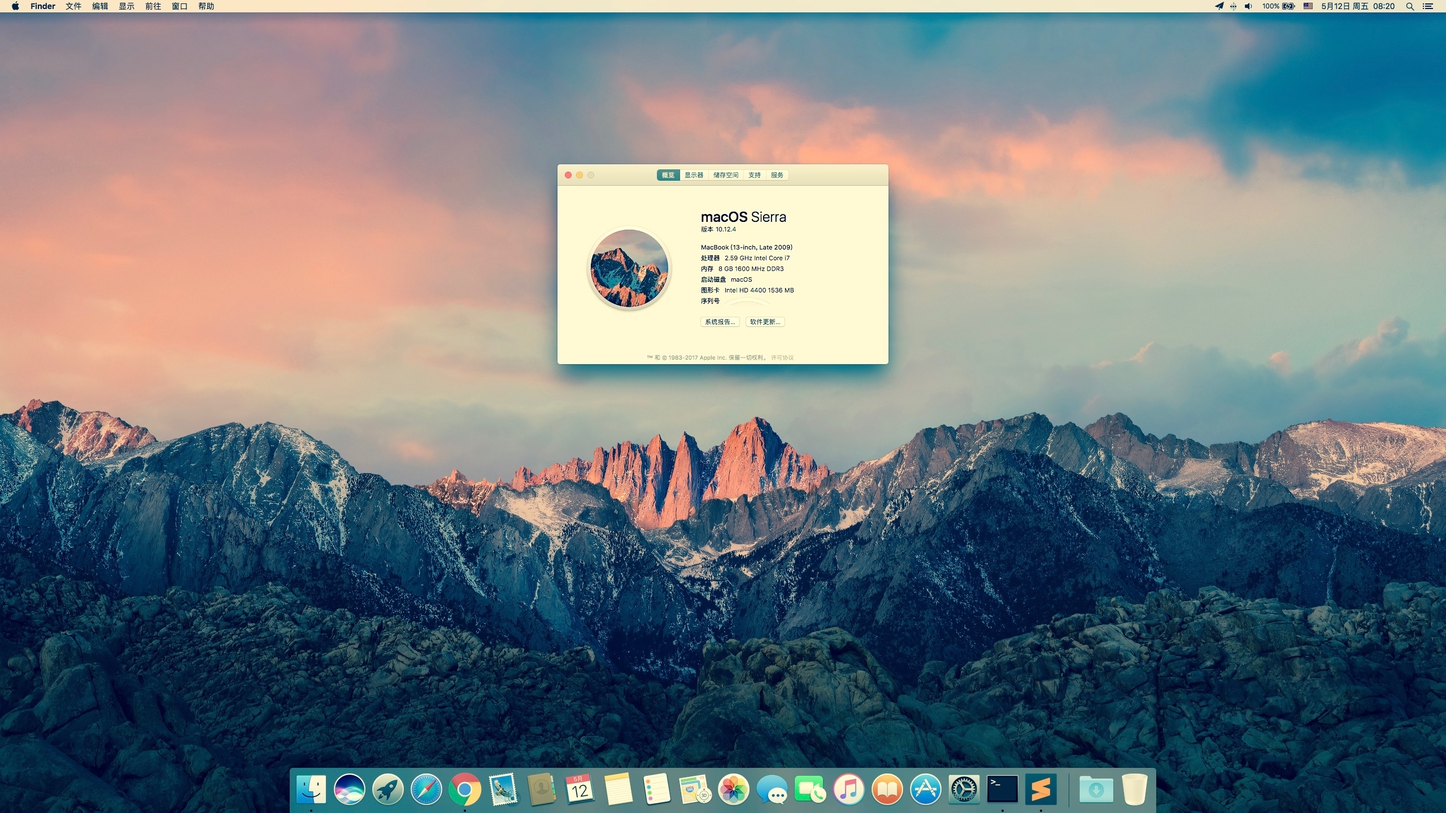
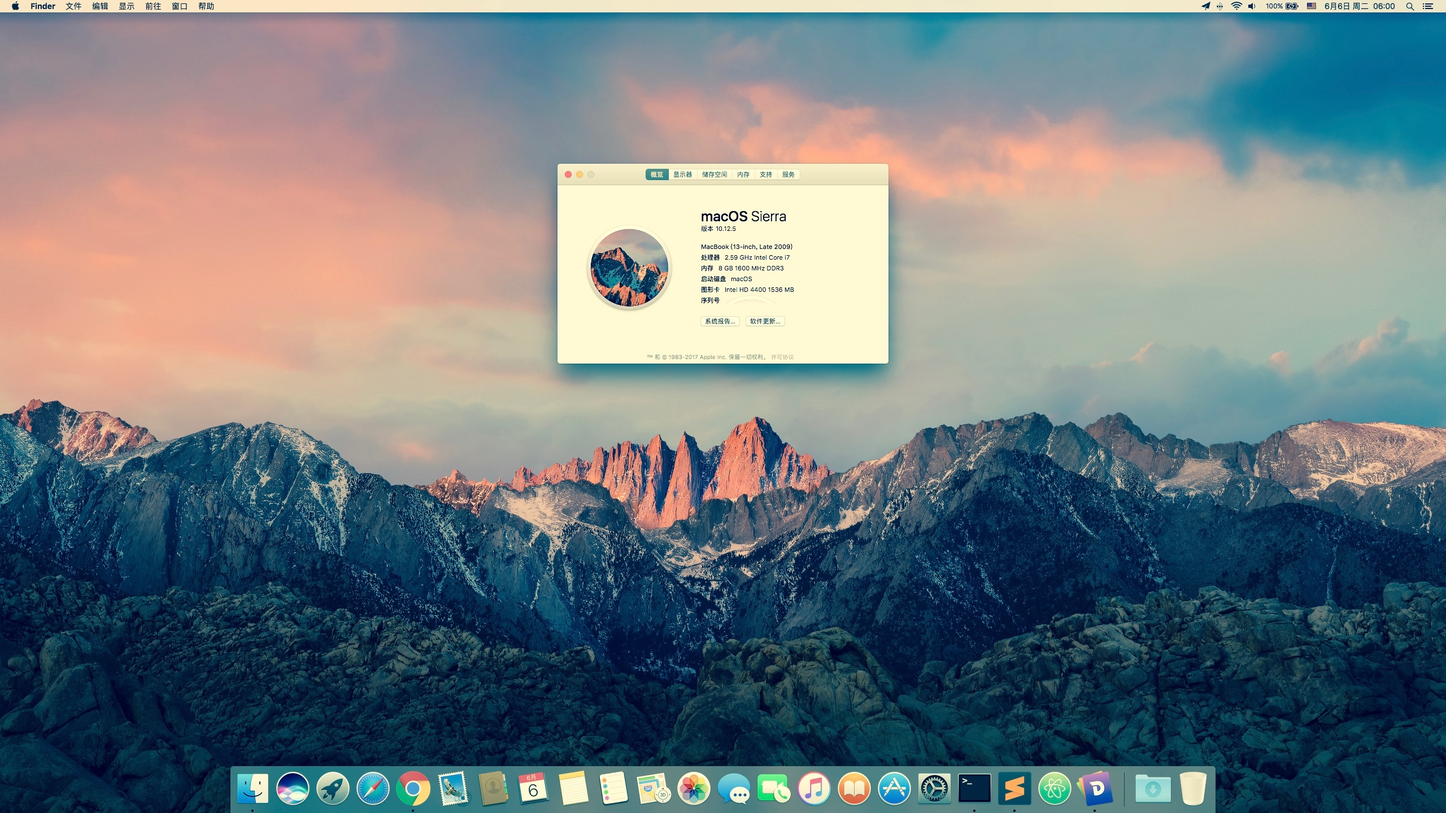
stronger ^_^

diff --git a/README.md b/README.md
@@ -1,7 +1,7 @@
 ## 小黑修炼记
 
     修炼目标
-    mac OS: macOS Sierra 10.12.4
+    mac OS: macOS Sierra 10.12.5
     SMBIOS: MacBookPro11,2
 
     使用 Vue, iView 构建的 GitHub 上 maciasl patch 的预览
@@ -10,15 +10,14 @@
 
 设备 | 型号
 :-: | -
-主板 | Lenovo Lancer 5A5
+主板 | LENOVO 9BCN29WW
 主板芯片组 | Intel Lynx Point-LP `南桥`, Intel Haswell `北桥`
 CPU | Intel(R) Core(TM) i7-4510U CPU @ 2.00GHz `可睿频至 3.1GHz`
 集显 | Intel HD Graphics 4400 `Haswell-ULT GT2`
 独显 | NVIDIA GeForce 840M
 声卡 | Conexant CX20751/2
-有线网卡 | Realtek RTL8168/8111 PCI-E `Realtek RTL8168GU`
-无线网卡 | Intel(R) Dual Band Wireless-AC 3160
-蓝牙 | 英特尔(R) 无线 Bluetooth(R) `USB\VID_8087&PID_07DC&REV_0001`
+有线 | Realtek RTL8168/8111 PCI-E `Realtek RTL8168GU`
+无线和蓝牙| Intel 3160 AC &nbsp;--<sup>更换为</sup>-->&nbsp; Broadcom BCM4352 802.11AC
 触控板 | ELAN
 
 &nbsp;
@@ -70,8 +69,8 @@ CPU | Intel(R) Core(TM) i7-4510U CPU @ 2.00GHz `可睿频至 3.1GHz`
     完成补丁: [:page_facing_up:](patches/graphics_inject_id.txt)
 
         id 获取 `两种途径`:
-        [tonymacx86](https://www.tonymacx86.com/threads/fix-intel-hd4200-hd4400-hd4600-mobile-on-yosemite.145427/)
-        [pcbeta](http://bbs.pcbeta.com/viewthread-1465761-1-1.html)
+          [tonymacx86](https://www.tonymacx86.com/threads/fix-intel-hd4200-hd4400-hd4600-mobile-on-yosemite.145427/)
+        | [pcbeta](http://bbs.pcbeta.com/viewthread-1465761-1-1.html)
 
 
 -   **声卡**  
@@ -81,25 +80,45 @@ CPU | Intel(R) Core(TM) i7-4510U CPU @ 2.00GHz `可睿频至 3.1GHz`
     参考补丁: `[audio] Audio Layout 12`  
     完成补丁: [:page_facing_up:](patches/audio.txt)
 
-    layout-id: [查看](https://github.com/vit9696/AppleALC/wiki/Supported-codecs)
+    layout-id: [github](https://github.com/vit9696/AppleALC/wiki/Supported-codecs)
 
     驱动文件:
-    [AppleALC](https://github.com/vit9696/AppleALC)
-    [Lilu](https://github.com/vit9696/Lilu)
+      [AppleALC](https://github.com/vit9696/AppleALC)
+    , [Lilu](https://github.com/vit9696/Lilu)
     > AppleALC 1.1.1 : Requires Lilu 1.1.0 or newer  
     > AppleALC 1.1.0 : AppleALC now has its kernel patcher moved to Lilu.kext  
     > AppleALC 1.0.19: Added Conexant CX20751_2 HDMI/DisplayPort Output fix by syscl
+
 
 -   **有线网卡**  
     `Realtek RTL8168GU`  
     驱动文件: [RealtekRTL8111.kext](https://bitbucket.org/RehabMan/os-x-realtek-network/downloads)
 
--   ~~***无线网卡***~~ :ghost:  
-    ~~*`Intel(R) Dual Band Wireless-AC 3160`*~~
 
--   **蓝牙**  
-    `英特尔(R) 无线 Bluetooth(R) USB\VID_8087&PID_07DC&REV_0001`  
-    it's working ^\_^
+-   ***无线网卡*** :ghost:  
+    *`Broadcom BCM4352 802.11AC (BCM94352Z)`*  
+    :bulb: 在 Windows 操作系统下 [移除白名单](https://www.tonymacx86.com/threads/guide-lenovo-g50-70-and-z50-70-bios-whitelist-removal.187340/)
+    之后，更换新的无线网卡  
+    驱动文件:
+    [FakePCIID_Broadcom_WiFi.kext](https://bitbucket.org/RehabMan/os-x-fake-pci-id/downloads)
+    `依赖 FakePCIID.kext`
+    > **Broadcom WiFi BCM94352 requires additional patches**
+    >
+    > The patch was created by the-darkvoid.
+    >
+    > eg. in KextsToPatch:  
+    > Comment: AirPortBrcm4360 - fcvo, 10.12.x (credit the-darkvoid)  
+    > MatchOS: 10.12.x  
+    > Name: AirPortBrcm4360  
+    > Find: <81f952aa 00007529>  
+    > Replace: <81f952aa 00006690>
+    >
+    > Additional background: [insanelymac](http://www.insanelymac.com/forum/topic/312759-fix-macos-sierra-dp1-bcm94532z-wifi/)
+
+-   ***蓝牙*** :ghost:  
+    驱动文件:
+      [BrcmFirmwareData.kext](https://bitbucket.org/RehabMan/os-x-brcmpatchram/downloads)
+    , [BrcmPatchRAM2.kext](https://bitbucket.org/RehabMan/os-x-brcmpatchram/downloads)
 
 
 -   **键盘／触摸板**  
@@ -113,7 +132,7 @@ CPU | Intel(R) Core(TM) i7-4510U CPU @ 2.00GHz `可睿频至 3.1GHz`
     参考补丁: `[sys] Haswell LPC`  
     完成补丁: [:page_facing_up:](patches/lpc.txt)
 
-    id 查找方法: [查看](http://bbs.pcbeta.com/viewthread-1473630-1-1.html)
+    id 查找方法: [pcbeta](http://bbs.pcbeta.com/viewthread-1473630-1-1.html)
 
 -   **亮度**  
     修改的表: `SSDT-3.dsl`  
@@ -128,6 +147,18 @@ CPU | Intel(R) Core(TM) i7-4510U CPU @ 2.00GHz `可睿频至 3.1GHz`
     3. [修复 macOS 10.12.4 版本的亮度](https://www.tonymacx86.com/threads/guide-laptop-backlight-control-using-applebacklightinjector-kext.218222/)
     `获得制作的两个文件 •SSDT-PNLF.aml •AppleBacklightInjector.kext`
 
+    **Additional**
+    > The patch was created by RehabMan.
+    >
+    > eg. in KextsToPatch:  
+    > Comment: change F%uT%04x to F%uTxxxx in AppleBacklightInjector.kext (credit RehabMan)  
+    > Name: com.apple.driver.AppleBacklight  
+    > Find: <46257554 25303478 00>  
+    > Replace: <46257554 78787878 00>
+    >
+    > Additional background of *Installation*: [tonymacx86](https://www.tonymacx86.com/threads/guide-laptop-backlight-control-using-applebacklightinjector-kext.218222/)
+
+
 -   **电池**  
     :bulb: 电池状态  
     修改的表: `DSDT.dsl`  
@@ -135,9 +166,9 @@ CPU | Intel(R) Core(TM) i7-4510U CPU @ 2.00GHz `可睿频至 3.1GHz`
     驱动文件: [ACPIBatteryManager.kext](https://bitbucket.org/RehabMan/os-x-acpi-battery-driver/downloads/)
 
     补丁制作:
-    [tonymacx86](https://www.tonymacx86.com/threads/guide-how-to-patch-dsdt-for-working-battery-status.116102/)
-    [pcbeta](http://bbs.pcbeta.com/viewthread-1521462-1-1.html)
-    `后者为前者的中译版`
+      [tonymacx86](https://www.tonymacx86.com/threads/guide-how-to-patch-dsdt-for-working-battery-status.116102/)
+    | [pcbeta](http://bbs.pcbeta.com/viewthread-1521462-1-1.html)
+      `(后者为前者的中译版)`
 
 -   **睿频**  
     `Intel i7-4510U CPU @ 2.00GHz Turbo 3.1GHz`  
@@ -154,20 +185,40 @@ CPU | Intel(R) Core(TM) i7-4510U CPU @ 2.00GHz `可睿频至 3.1GHz`
 
 ---
 
--   **还需要的其它驱动**  
+-   **还需要的其它驱动 by RehabMan**  
 
 Relative Devices | Drive name | URL
-:-----:| ---------------------------------- | ---------------------------------
-System | FakeSMC.kext                       | [Download](https://bitbucket.org/RehabMan/os-x-fakesmc-kozlek/downloads/)
-&nbsp; | • FakePCIID.kext                   | &nbsp;
-&nbsp; | • FakePCIID_Intel_GbX.kext         | &nbsp;
-System | • FakePCIID_Intel_HDMI_Audio.kext  | [Download](https://bitbucket.org/RehabMan/os-x-fake-pci-id/downloads/)
-&nbsp; | • FakePCIID_Intel_HD_Graphics.kext | &nbsp;
-&nbsp; | • FakePCIID_XHCIMux.kext           | &nbsp;
-USB    | GenericUSBXHCI.kext                | [Download](https://bitbucket.org/RehabMan/os-x-generic-usb3/downloads/)
-USB    | USBInjectAll.kext                  | [Download](https://bitbucket.org/RehabMan/os-x-usb-inject-all/downloads/)
+:------:| ---------------------------------- | ---------------------------------
+System  | FakeSMC.kext                       | [bitbucket](https://bitbucket.org/RehabMan/os-x-fakesmc-kozlek/downloads/)
+System  | • FakePCIID.kext                   | [bitbucket](https://bitbucket.org/RehabMan/os-x-fake-pci-id/downloads/)
+GPU     | • FakePCIID_Intel_HD_Graphics.kext | ibid.
+HD-Audio| • FakePCIID_Intel_HDMI_Audio.kext  | ibid.
+USB     | • FakePCIID_XHCIMux.kext           | ibid.
+GPU     | IntelGraphicsFixup.kext            | [bitbucket](https://bitbucket.org/RehabMan/intelgraphicsfixup/downloads/)
+USB     | GenericUSBXHCI.kext                | [bitbucket](https://bitbucket.org/RehabMan/os-x-generic-usb3/downloads/)
+USB     | USBInjectAll.kext                  | [bitbucket](https://bitbucket.org/RehabMan/os-x-usb-inject-all/downloads/)
 
 ---
+
+&nbsp;
+
+#### Bad Apple
+> **Graphics boot glitch patch for 10.12**
+>
+> A new patch is required.
+>
+> eg. in KextsToPatch:  
+> Comment: Boot graphics glitch, 10.12.dp1 (credit denskop)  
+> MatchOS: 10.12.x  
+> Name: IOGraphicsFamily  
+> Find: <01000075 25>  
+> Replace: <010000eb 25>
+>
+> Read also here for further information/tips: [tonymacx86](https://www.tonymacx86.com/threads/fix-resolve-boot-screen-garble.175799/)
+>
+> For those too lazy to read, keep in mind:  
+> \- the glitch fix does not remove the glitch entirely... it only reduces the severity  
+> \- the glitch fix is most effective if CSM/legacy boot is enabled in BIOS
 
 &nbsp;
 
